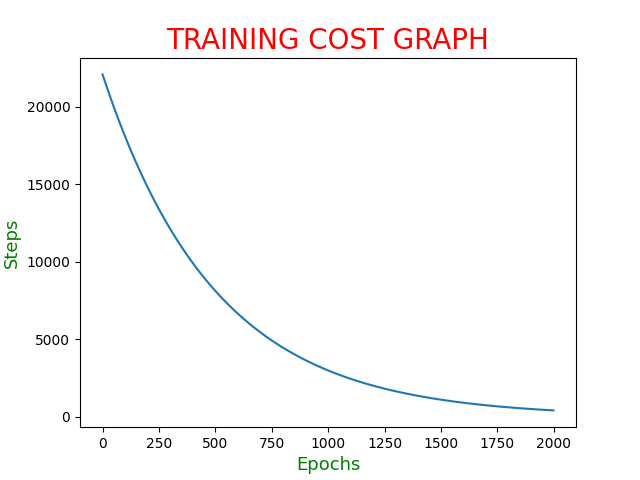
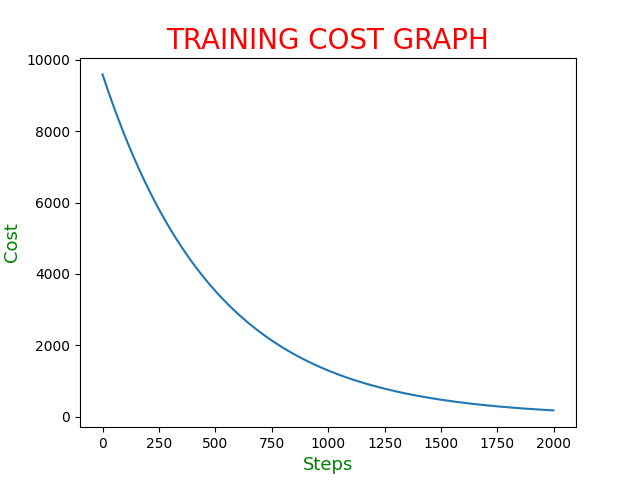
corrected graphs with final touchups

diff --git a/Code/Gradient_Descent_optimization/Implementation/optimizer_training.py b/Code/Gradient_Descent_optimization/Implementation/optimizer_training.py
@@ -55,19 +55,19 @@ if args.optimizer == 'Nesterov':
 
 # RMS PROP DESCENT DEFAULTS
 if args.optimizer == 'RMSprop':
-    epochs = 10
+    epochs = 20
     lr = 0.001
     extra_params = {'beta':0.9, 'btch_sz':100, 'epsilon':1e-8}
 
 # ADAGRAD DESCENT DEFAULTS
 if args.optimizer == 'Adagrad':
-    epochs = 20
+    epochs = 35
     lr = 0.1
     extra_params = {'epsilon':1e-8, 'btch_sz':32}
 
 # ADADELTA DESCENT DEFAULTS
 if args.optimizer == 'Adadelta':
-    epochs = 25
+    epochs = 40
     lr = 0.001
     extra_params = {'beta':0.9, 'btch_sz':32, 'epsilon':1e-8}
 

diff --git a/Code/Gradient_Descent_optimization/Implementation/utilites.py b/Code/Gradient_Descent_optimization/Implementation/utilites.py
@@ -47,6 +47,6 @@ def plot_cost_graph(costs):
 
     plt.plot(costs)
     plt.title('TRAINING COST GRAPH', fontsize=20, color='red')
-    plt.xlabel('Epochs', fontsize=13, color='green')
-    plt.ylabel('Steps', fontsize=13, color='green')
+    plt.xlabel('Steps', fontsize=13, color='green')
+    plt.ylabel('Cost', fontsize=13, color='green')
     plt.show()
